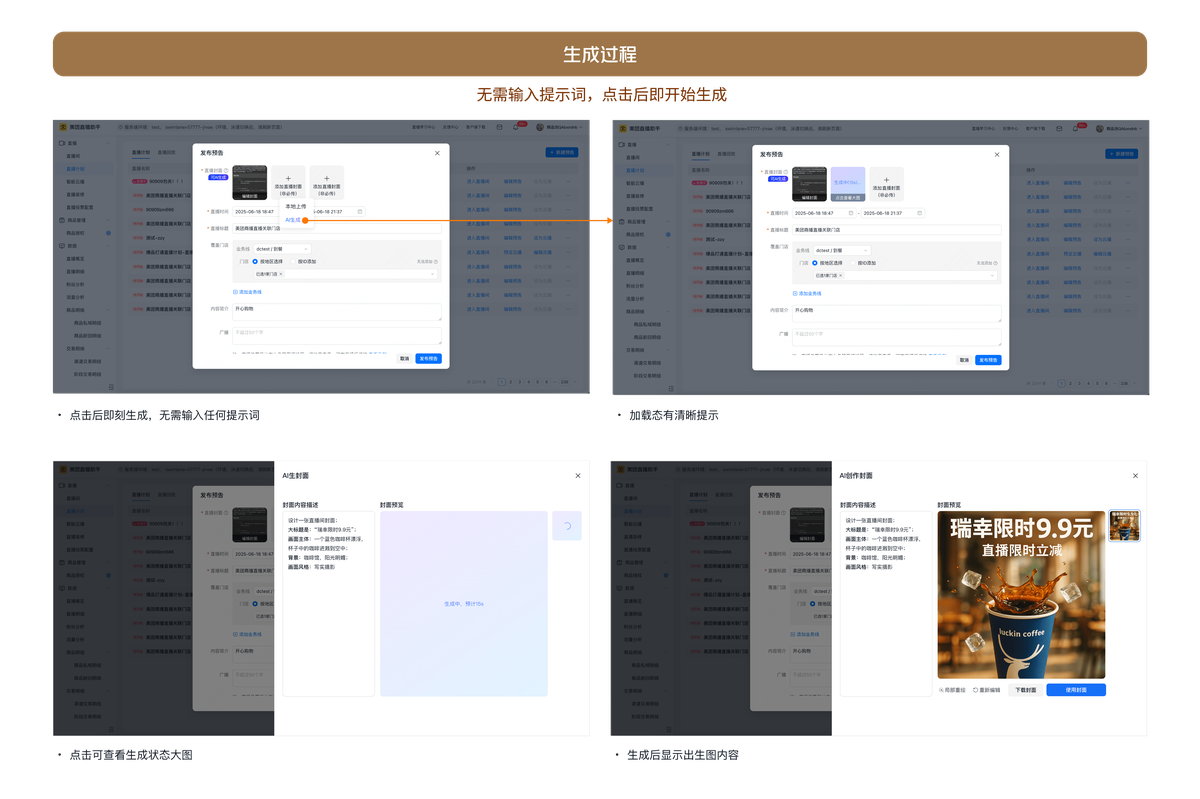
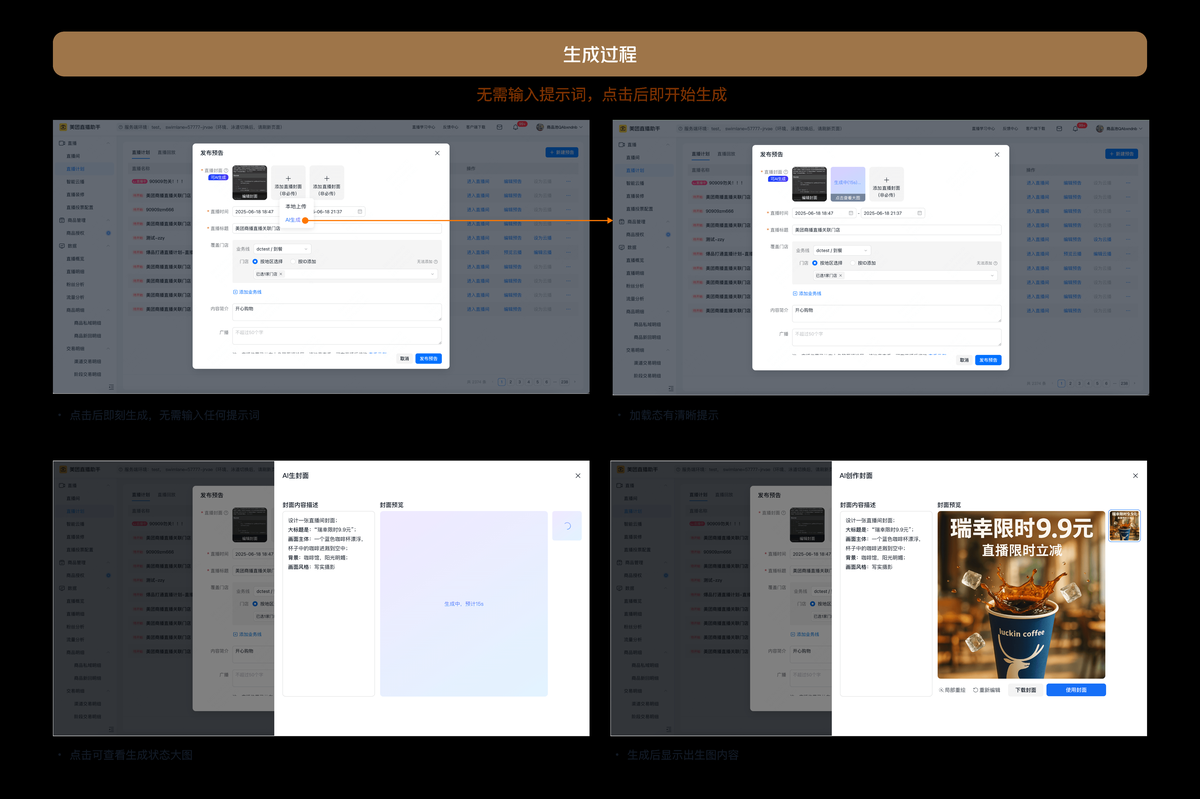
fix: ai-cover 图片恢复原始PNG，缩略图1200px lossless，lightbox点击显示原始高清

diff --git a/project-ai-cover.html b/project-ai-cover.html
@@ -1170,7 +1170,7 @@ a { color: inherit; text-decoration: none; }
       </div>
 
       <div class="img-block" style="margin-bottom: 40px;">
-        <img src="images/ai-cover-result.webp" alt="项目成果：Before &amp; After">
+        <img src="images/ai-cover-result.webp" data-hd="images/ai-cover-result.png" alt="项目成果：Before &amp; After">
       </div>
 
       <div class="section-heading" style="font-size: 18px; margin-top: 0; margin-bottom: 16px;" id="sec-painpoint">核心痛点</div>
@@ -1381,10 +1381,10 @@ a { color: inherit; text-decoration: none; }
       </div>
 
       <div class="img-block" style="margin-bottom: 16px;">
-        <img src="images/生成中.webp" alt="生成中设计方案">
+        <img src="images/生成中.webp" data-hd="images/生成中.png" alt="生成中设计方案">
       </div>
       <div class="img-block" style="margin-bottom: 32px;">
-        <img src="images/生成后.webp" alt="生成后设计方案">
+        <img src="images/生成后.webp" data-hd="images/生成后.png" alt="生成后设计方案">
       </div>
 
 
@@ -1480,7 +1480,7 @@ a { color: inherit; text-decoration: none; }
         确定各层数据来源后，我们将其转化为工作流的输入结构——商家环境图和节庆场景信息进入背景层生成，商品标题进入文案层生成，货架爆品实物图直接调取到商品层，最终合并输出完整封面。
       </div>
       <div class="img-block" style="margin-bottom: 40px;">
-        <img src="images/ai-cover-workflow.webp" alt="模型训练理想工作流" style="width: 80%; border: 1px solid rgba(180,160,140,0.18); border-radius: var(--radius-lg);">
+        <img src="images/ai-cover-workflow.webp" data-hd="images/ai-cover-workflow.png" alt="模型训练理想工作流" style="width: 80%; border: 1px solid rgba(180,160,140,0.18); border-radius: var(--radius-lg);">
       </div>
 
       <!-- Prompt 设计 -->
@@ -1719,7 +1719,8 @@ a { color: inherit; text-decoration: none; }
     );
     lightboxTriggers.forEach(img => {
       img.addEventListener('click', () => {
-        lightboxImg.src = img.src;
+        const hdSrc = img.getAttribute('data-hd');
+        lightboxImg.src = hdSrc || img.src;
         lightboxImg.alt = img.alt;
         lightbox.classList.add('active');
         document.body.style.overflow = 'hidden';